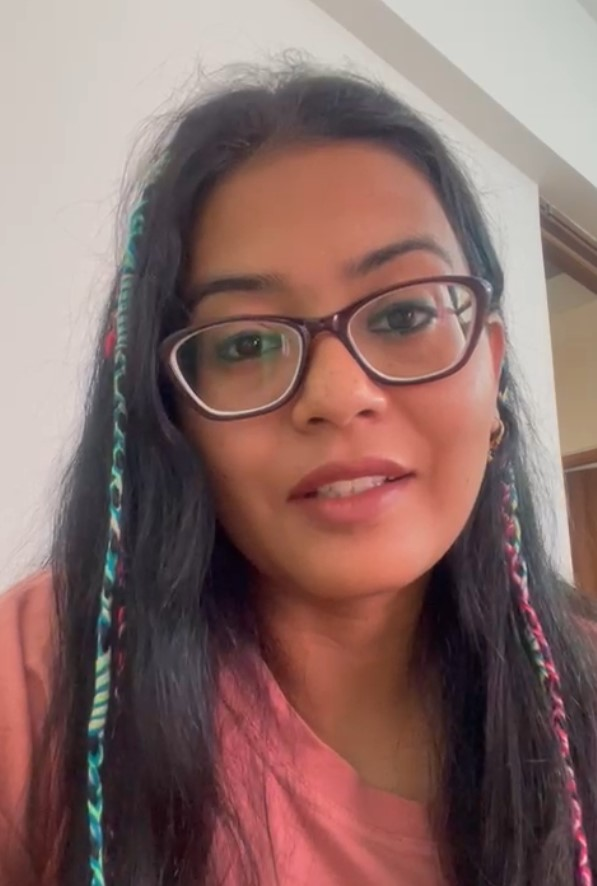
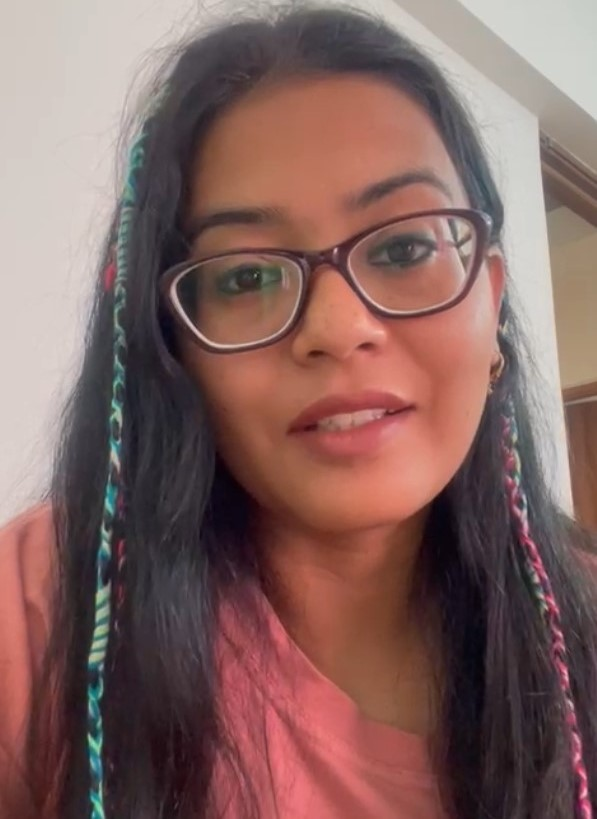
feat: add TestimonialsSection component with automatic carousel and read-more functionality

diff --git a/frontend/src/components/sections/TestimonialsSection.tsx b/frontend/src/components/sections/TestimonialsSection.tsx
@@ -60,9 +60,9 @@ function TestimonialCard({ t, onExpandChange }: { t: typeof testimonials[0], onE
       <div className="relative flex flex-col h-full w-full bg-linear-to-b from-[#080d1a] to-[#04060d] md:bg-[#080d1a] pb-10 sm:pb-12 shadow-[0_0_20px_rgba(0,168,255,0.15)] md:shadow-[0_0_35px_rgba(0,168,255,0.25)] border border-[#00a8ff]/20 rounded-xl overflow-visible transition-all duration-300 md:hover:shadow-[0_0_50px_rgba(0,168,255,0.4)] md:hover:-translate-y-1">
 
         {/* Upper Half: Image with Blue Border */}
-        <div className="w-full shrink-0 h-64 sm:h-70 pb-0">
+        <div className="w-full shrink-0 h-64 sm:h-74 pb-0">
           <div className="w-full h-full border border-[#00a8ff]/30 rounded-t-xl overflow-hidden shadow-[0_0_15px_rgba(0,168,255,0.1)]">
-            <img src={t.image} alt={t.name} className="w-full h-full object-fill object-top" loading="lazy" />
+            <img src={t.image} alt={t.name} className="w-full h-full object-cover object-top" loading="lazy" />
           </div>
         </div>
 
